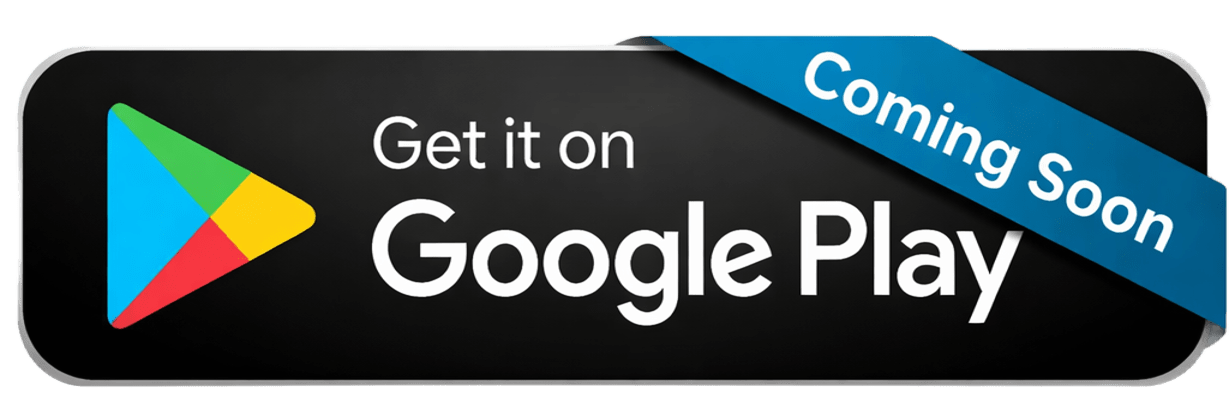
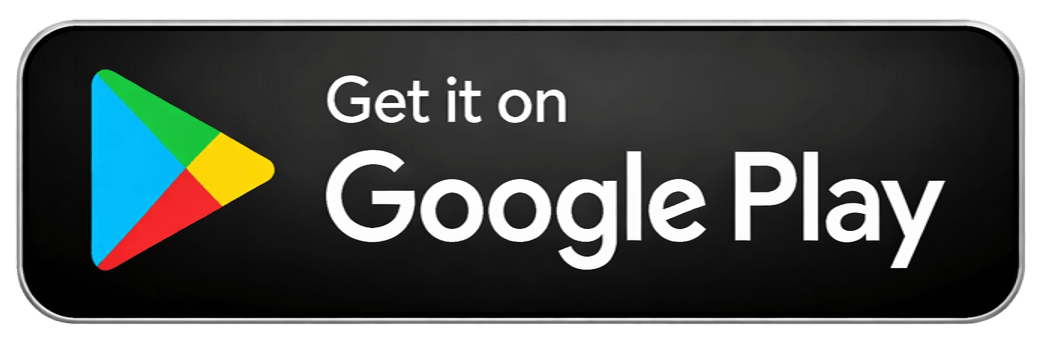
Add playstore link

diff --git a/src/components/sections/Download.tsx b/src/components/sections/Download.tsx
@@ -62,7 +62,9 @@ export default function Download() {
             </motion.a>
 
             <motion.a
-              href="#"
+              href="https://play.google.com/store/apps/details?id=com.guillaumebdx.tesla3dviewer"
+              target="_blank"
+              rel="noopener noreferrer"
               initial={{ opacity: 0, y: 20 }}
               whileInView={{ opacity: 1, y: 0 }}
               viewport={{ once: true }}
